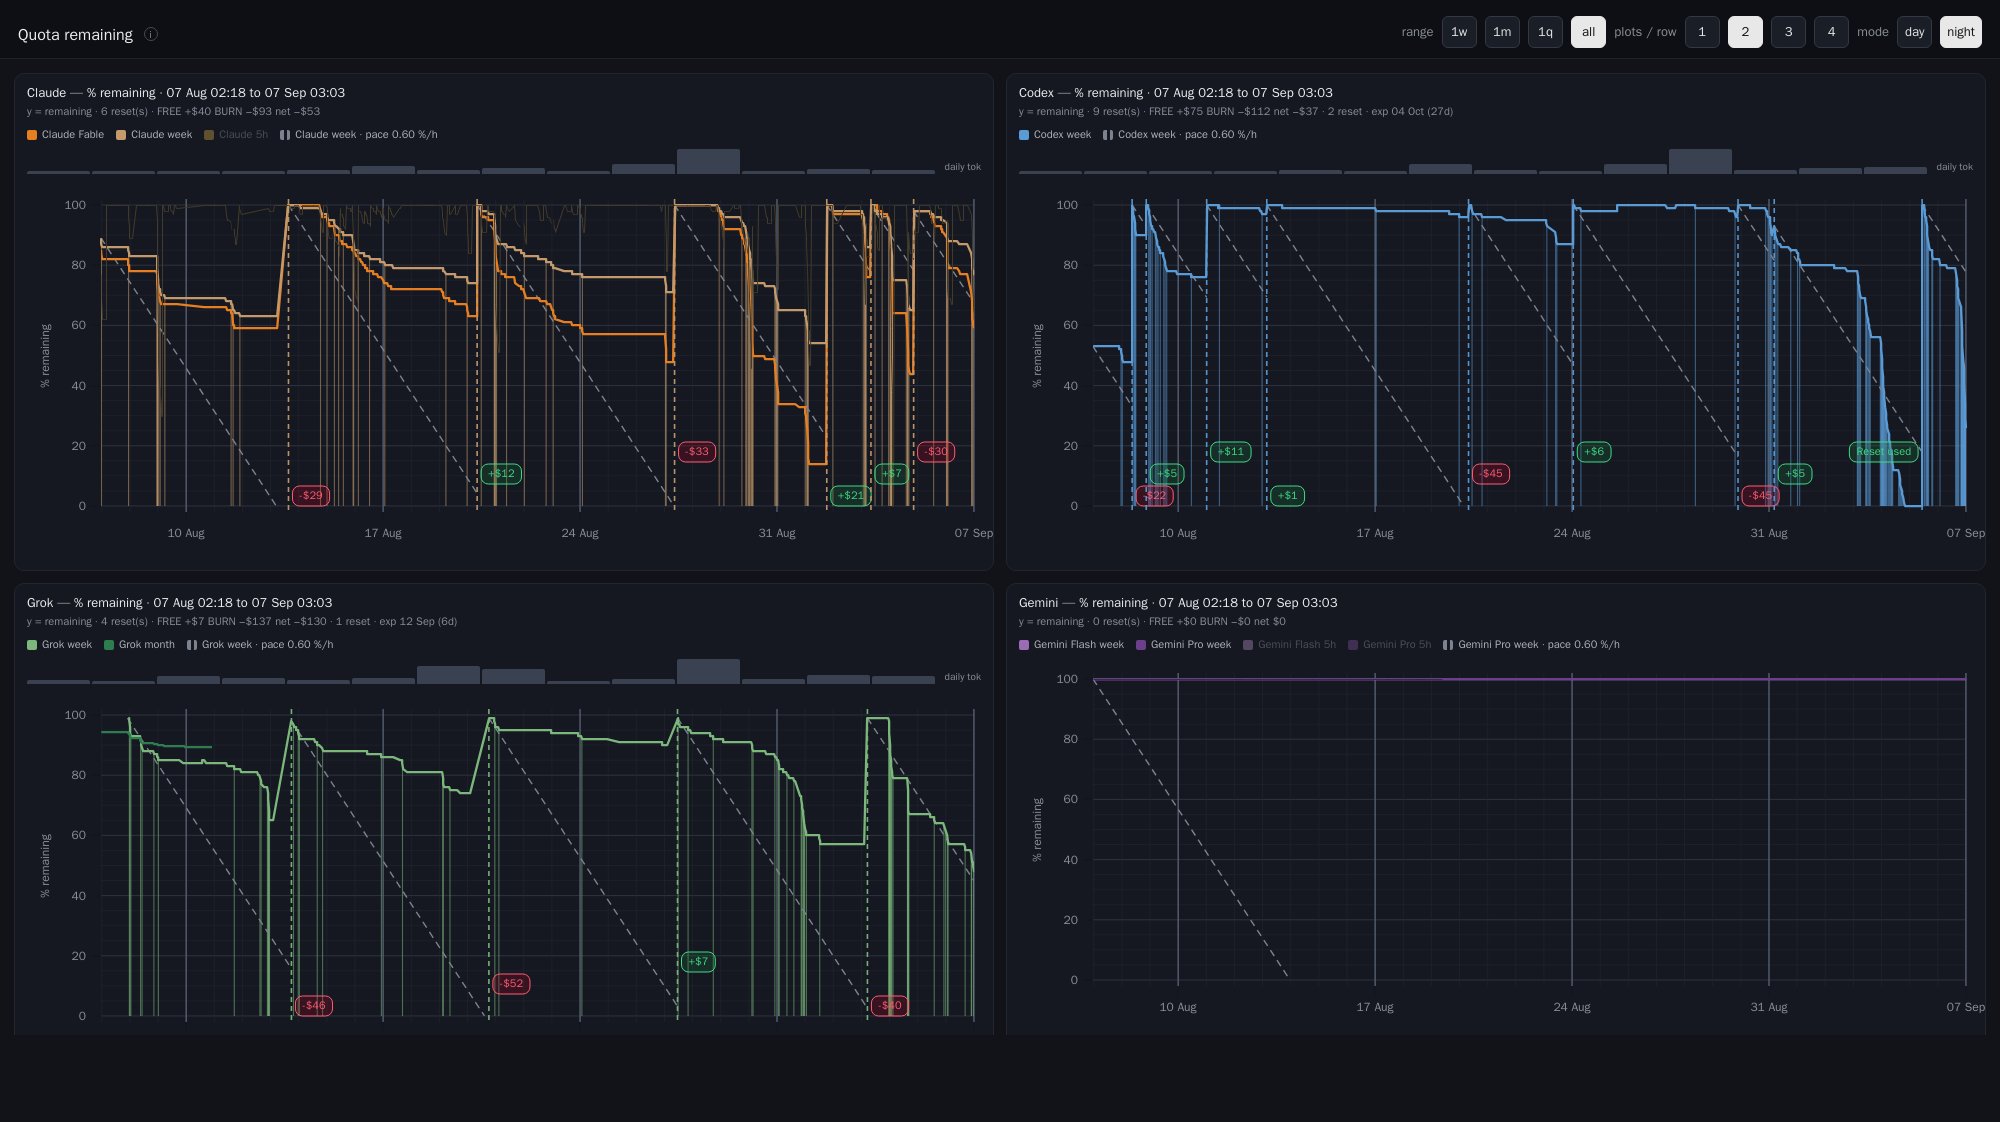
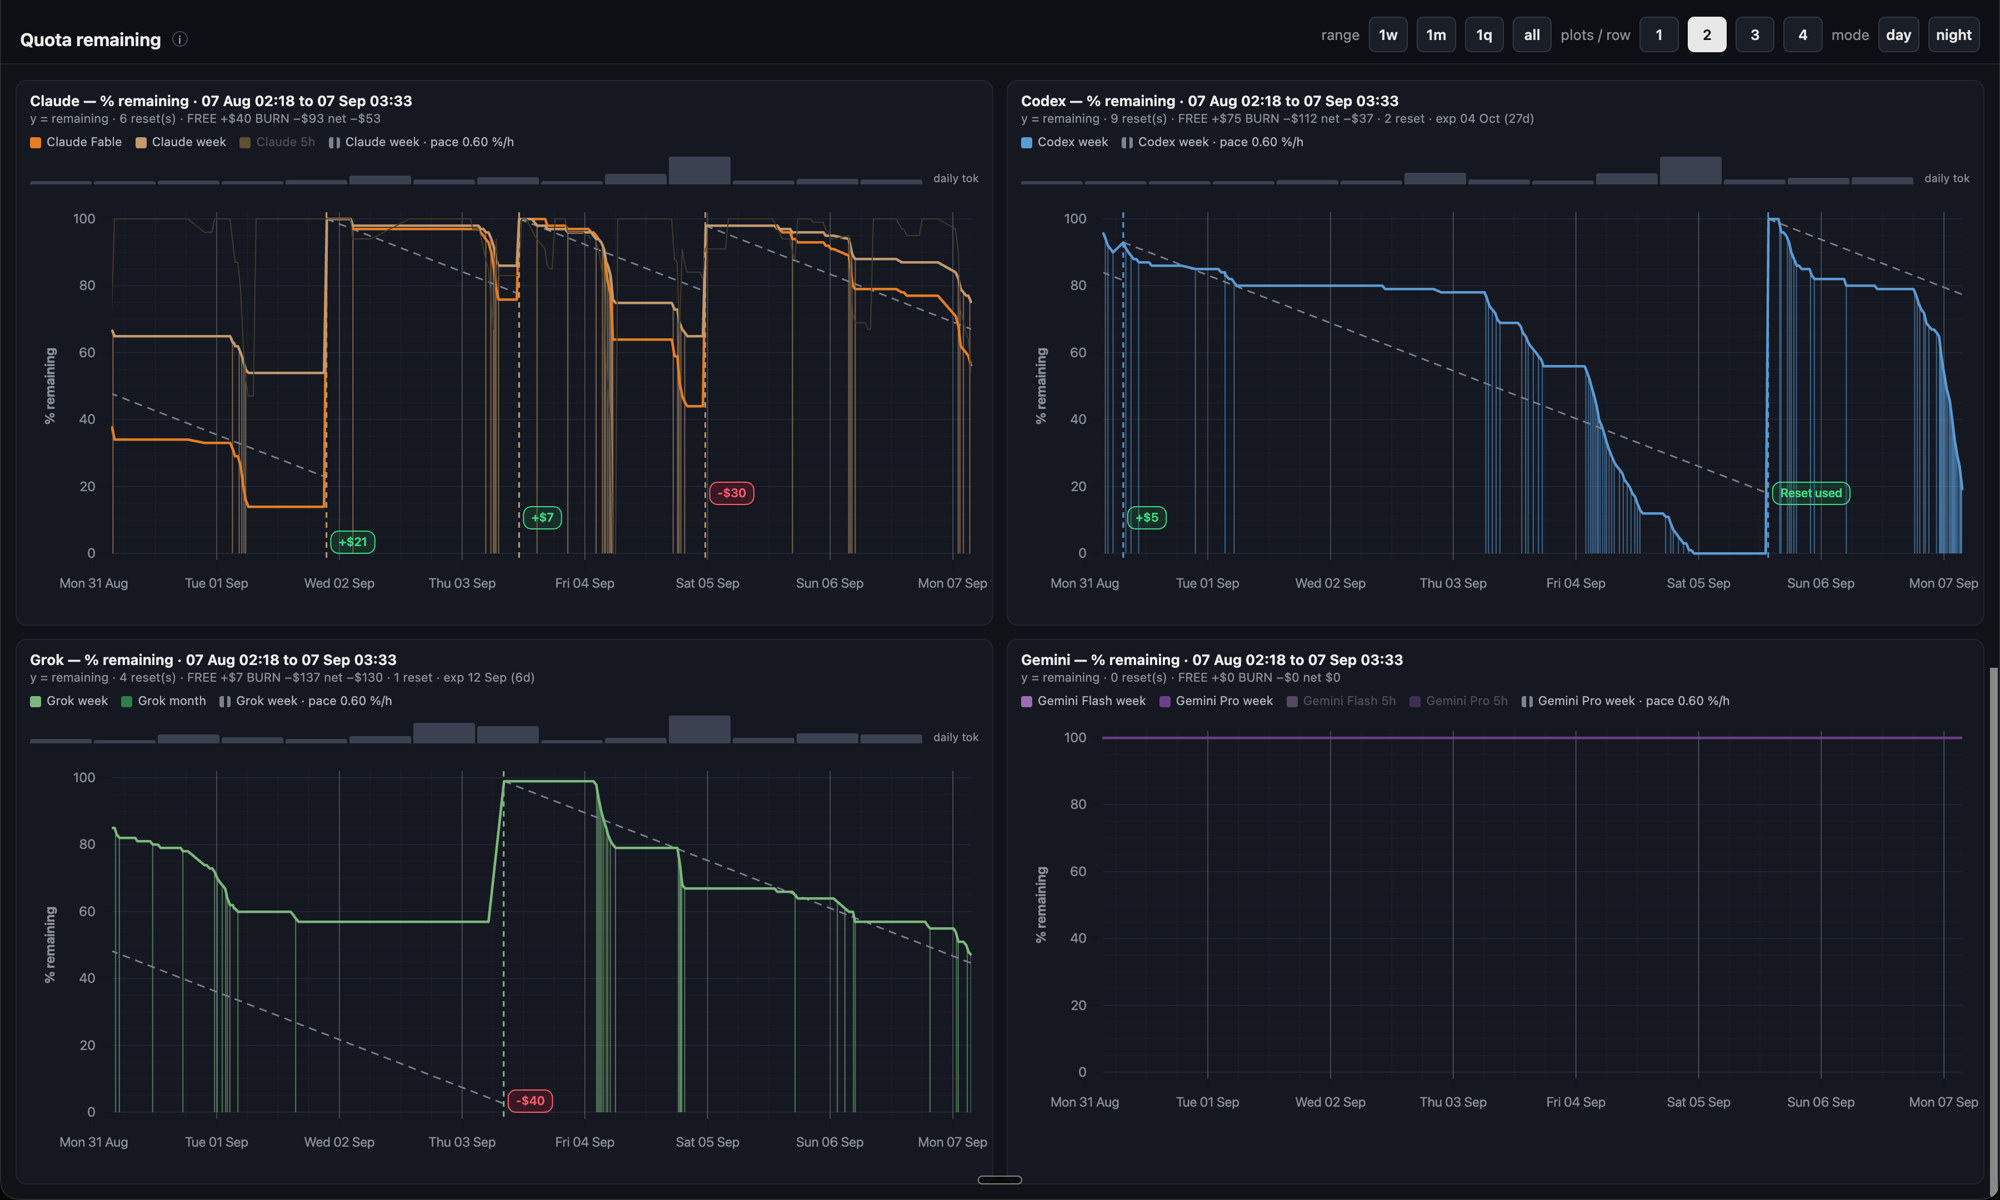
README night screenshot: pills, Claude week only, Reset used

diff --git a/README.md b/README.md
@@ -30,7 +30,7 @@
 <h3 align="center"><a href="#install"><ins>Install ai-quotas</ins></a></h3>
 
 <p align="center">
-  <a href="docs/examples/dash-night.png"><img src="docs/examples/dash-night.png" alt="ai-quotas night dashboard: remaining % for Claude, Codex, and Grok, with an empty Gemini panel" width="960" /></a>
+  <a href="docs/examples/dash-night.png"><img src="docs/examples/dash-night.png" alt="ai-quotas night dashboard: remaining % for Claude, Codex, Grok, and Gemini" width="960" /></a>
 </p>
 
 > Vendor usage endpoints are unofficial and can change. This tool uses **your** credentials, read-only. Use at your own risk.
